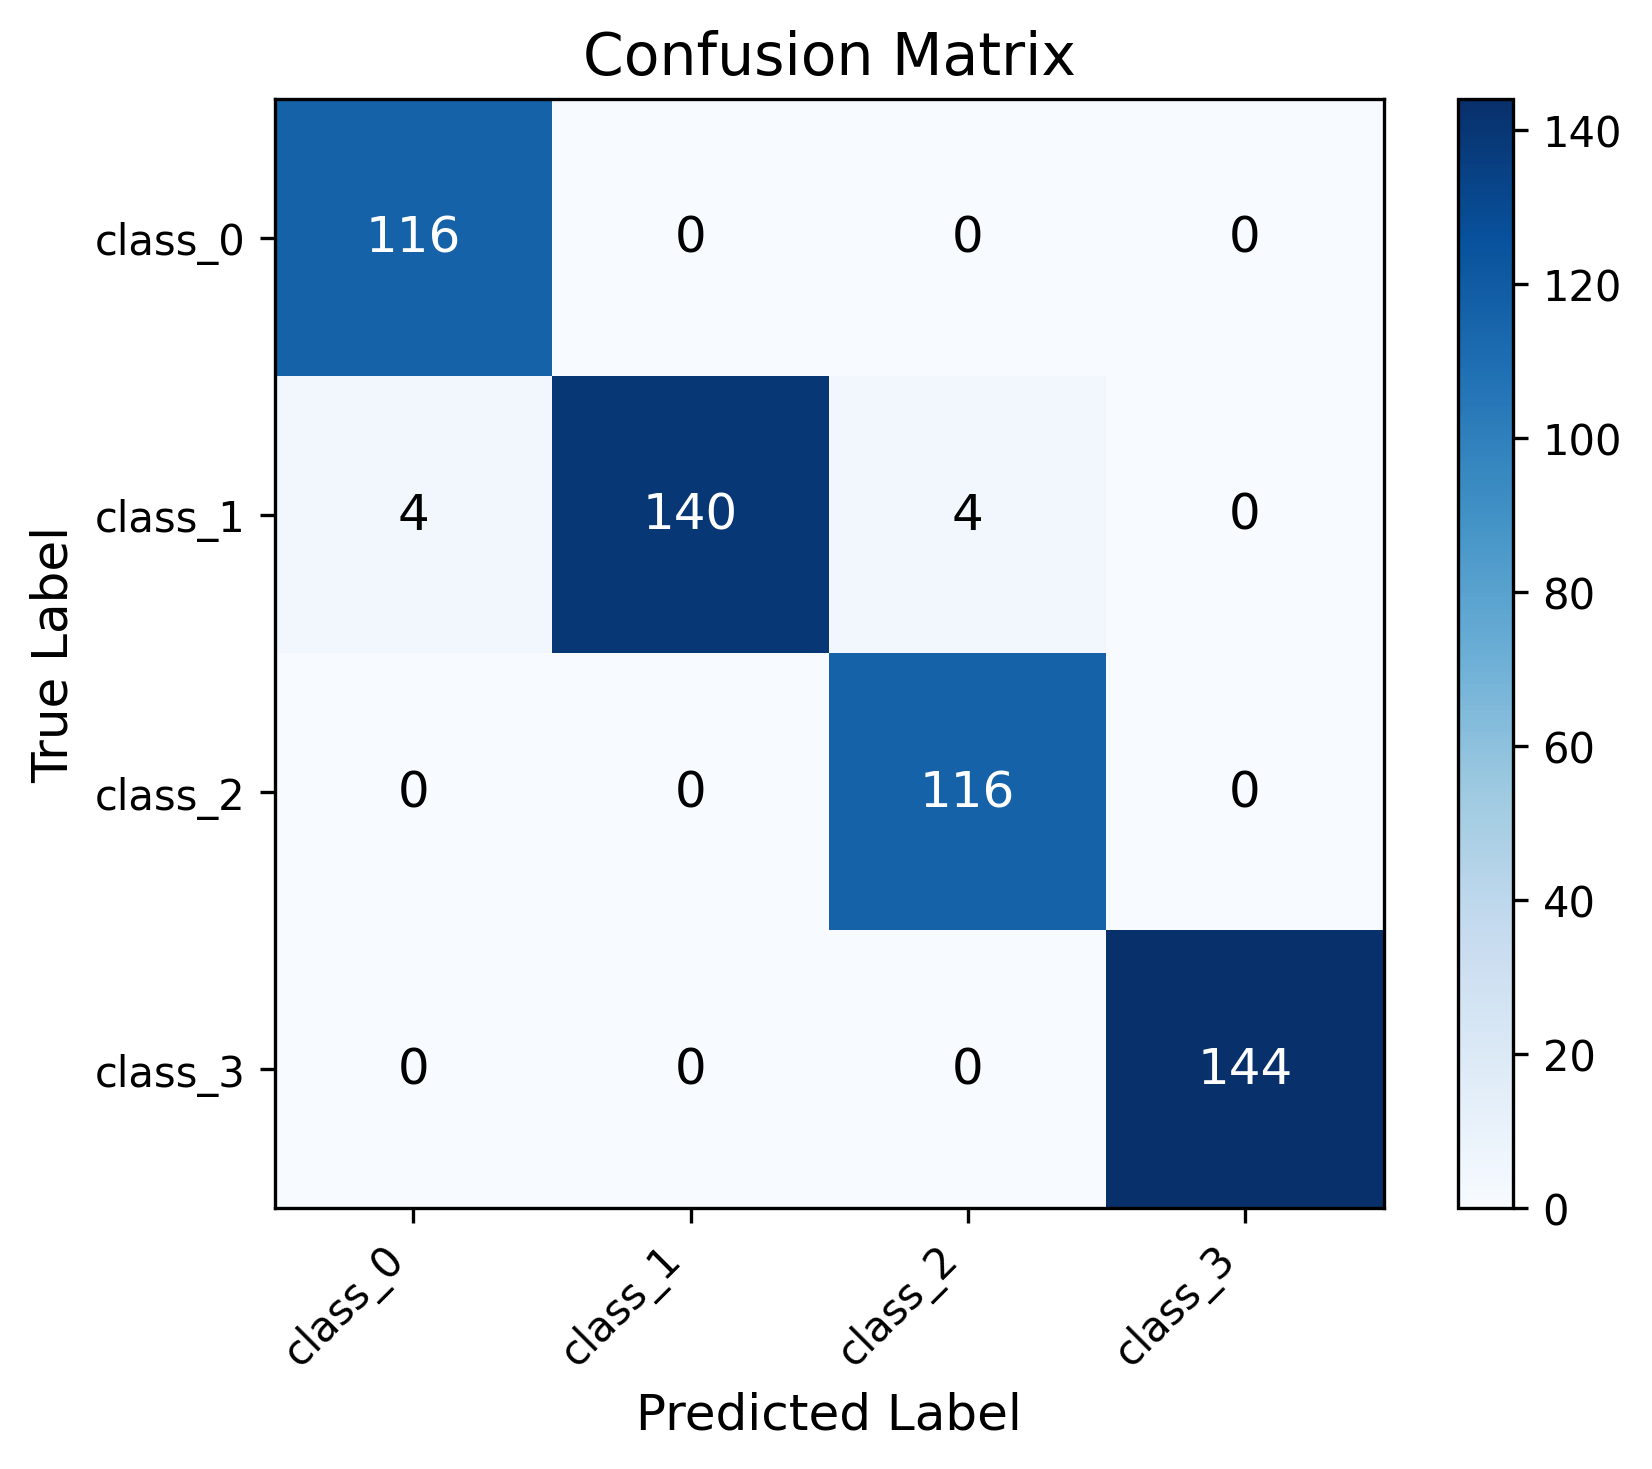
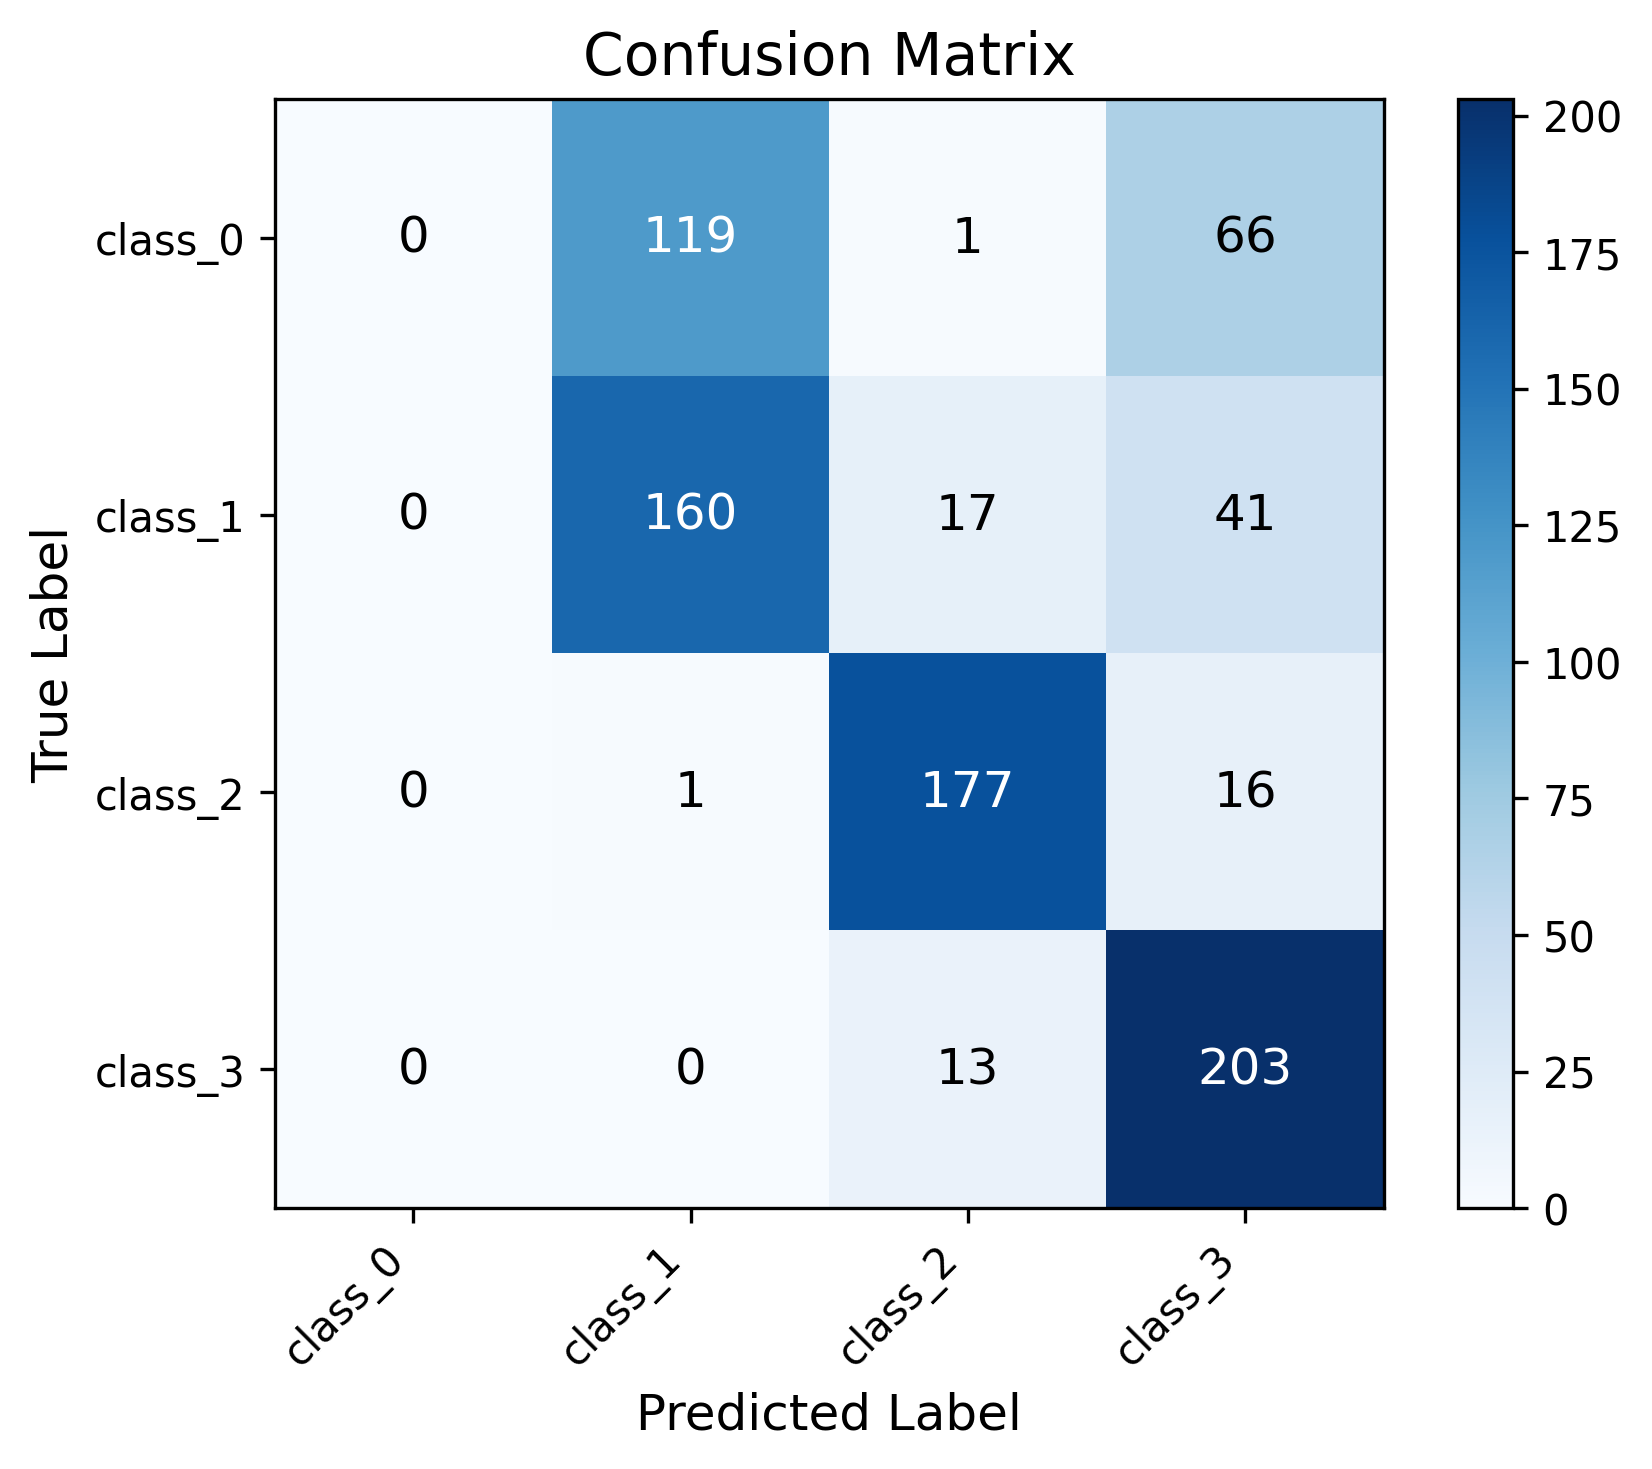
Add data loading functionality for shift test dataset; logits distill -> logits + feature l2 distill; attention loss X;
- Implemented `ShiftDataLoader` class in `readmatrobusteval.py` to load .mat files from a structured directory.

diff --git a/trainer.py b/trainer.py
@@ -24,6 +24,8 @@ from readmat import GXWData
 from exemplar import Exemplar
 from copy import deepcopy
 from sklearn.model_selection import train_test_split
+from readmat2 import GXW_data_shift_test
+from readmatrobusteval import ShiftDataLoader
 
 
 class Trainer:
@@ -33,6 +35,15 @@ class Trainer:
         self.num_new_cls = []
         self.dataset = GXWData()  
         self.openset = GXWData()
+        shift_loader = ShiftDataLoader()
+        shift_groups = shift_loader.get_shift_data()
+
+        if len(shift_groups) > 0:
+            shift_x, shift_y = zip(*shift_groups)
+        else:
+            shift_x, shift_y = [], []
+
+
         # self.dataset = Cifar100()  # 这里可以选择不同的数据集
         self.model = PreResNet(47,init_cls).cuda()        # formerly 32 for basicblock                          
         # print(self.model)
@@ -72,7 +83,8 @@ class Trainer:
             transforms.ToTensor(),
             transforms.Normalize([0.5],[0.2]),
         ])
-
+        self.shift_data = DataLoader(BatchData(shift_x, shift_y, self.input_transform_eval),
+                    batch_size=10, shuffle=False)
 
         total_params = sum(p.numel() for p in self.model.parameters() if p.requires_grad)
         print("Solver total trainable parameters : ", total_params)
@@ -340,6 +352,8 @@ class Trainer:
             self.previous_model = deepcopy(self.model)
             heatmap_name = f"heatmap_task_{inc_i}_after_BiC.png"
             test_acc, per_class_accuracy = self.test(test_data, inc_i, heatmap_name=heatmap_name)
+            if self.seen_cls >= 6:
+                shifttestacc, perclsshifttestacc = self.test(self.shift_data, inc_i, heatmap_name=f'shift_test{inc_i}.png')
             test_accs.append(test_acc)
             per_class_accuracies.append(per_class_accuracy)
             print("Test results on testset of model without BiC",test_accs_noBiC)
@@ -516,6 +530,7 @@ class Trainer:
         ce_losses = []
         accumulation_steps = 13
         alpha = (self.seen_cls - self.num_new_cls[-1]) / (self.seen_cls) 
+        # alpha = 0
         beta = beta
         print("classification proportion 1-alpha = ", 1-alpha)
         optimizer.zero_grad()
@@ -529,19 +544,23 @@ class Trainer:
                 pre_p = self.bias_forward(pre_p)
                 pre_p = F.softmax(pre_p[:,:self.seen_cls-num_new_cls]/T, dim=1)  
             logp = F.log_softmax(p[:,:self.seen_cls-num_new_cls]/T, dim=1)       
-            loss_soft_target = -torch.mean(torch.sum(pre_p * logp, dim=1))
+            # loss_soft_target = -torch.mean(torch.sum(pre_p * logp, dim=1))
+            loss_soft_target = F.kl_div(logp, pre_p, reduction='batchmean')
             loss_hard_target = nn.CrossEntropyLoss()(p[:,:self.seen_cls], label)
-            attn_loss = 0
-            for f, pf in zip(feats, pre_feats):
-                attn = self.get_attention_map(f)
-                pre_attn = self.get_attention_map(pf)
-                attn_loss += F.mse_loss(attn, pre_attn)
-                if not torch.isfinite(attn).all():
-                    print("Non-finite student_attn:", attn)
-                if not torch.isfinite(pre_attn).all():
-                    print("Non-finite teacher_attn:", pre_attn)
-            attn_loss /= len(feats)
-            loss = loss_soft_target * T * T + (1 - alpha) * loss_hard_target + beta * attn_loss
+            # attn_loss = 0
+            # for f, pf in zip(feats, pre_feats):
+            #     attn = self.get_attention_map(f)
+            #     pre_attn = self.get_attention_map(pf)
+            #     attn_loss += F.mse_loss(attn, pre_attn)
+            #     if not torch.isfinite(attn).all():
+            #         print("Non-finite student_attn:", attn)
+            #     if not torch.isfinite(pre_attn).all():
+            #         print("Non-finite teacher_attn:", pre_attn)
+            feat_old = pre_feats[-1]
+            feat_new = feats[-1]
+            feature_loss = F.mse_loss(feat_new, feat_old)
+            # attn_loss /= len(feats)
+            loss = alpha * loss_soft_target * T * T + alpha * feature_loss + (1 - alpha) * loss_hard_target 
 
             loss.backward(retain_graph=True)
             if (i + 1) % accumulation_steps == 0:

diff --git a/readmat2.py b/readmat2.py
@@ -1,0 +1,73 @@
+import os
+import scipy.io
+import numpy as np
+from tqdm import tqdm
+
+def GXW_data_shift_test(root_dir = 'GXW_Data/Dasdata_adding'):
+    """
+    Load shift test dataset from a directory structure: class folders with .mat files
+
+    Args:
+        root_dir: str, path to the shift test dataset root folder
+
+    Returns:
+        shift_test_group: list of (data, label)
+        class_to_idx: dict, {class_name: class_idx}
+    """
+
+    shift_data = []
+    shift_labels = []
+    class_names = sorted(os.listdir(root_dir))
+    class_to_idx = {cls_name: idx for idx, cls_name in enumerate(class_names)}
+
+    for cls_name in tqdm(class_names, desc="Loading shift test classes", leave=True):
+        cls_dir = os.path.join(root_dir, cls_name)
+        if not os.path.isdir(cls_dir):
+            continue
+        files = sorted(os.listdir(cls_dir))
+        mat_files = [os.path.join(cls_dir, f) for f in files if f.endswith('.mat')]
+
+        for fpath in tqdm(mat_files, desc=f'  {cls_name}', leave=False):
+            data = load_mat_file(fpath)
+            if data is not None:
+                shift_data.append(data)
+                # shift_labels.append(class_to_idx[cls_name])
+                shift_labels.append(1)  # all labels are 1 for THIS shift test
+                
+
+    # Pack into (data, label) pairs
+    shift_test_group = list(zip(shift_data, shift_labels))
+    print(f"Shift test samples loaded: {len(shift_test_group)} samples across {len(class_names)} classes")
+
+    return shift_test_group, class_to_idx
+
+
+def load_mat_file(file_path):
+    try:
+        mat_contents = scipy.io.loadmat(file_path)
+        valid_keys = [k for k in mat_contents.keys() if not k.startswith("__")]
+        if not valid_keys:
+            print(f"[WARN] No valid data key found in {file_path}")
+            return None
+
+        preferred_keys = ['subset_data', 'data']
+        for key in preferred_keys:
+            if key in mat_contents:
+                data = mat_contents[key]
+                break
+        else:
+            data = mat_contents[valid_keys[0]]  # fallback
+
+        if isinstance(data, np.ndarray):
+            if data.shape == (15, 10240):
+                return data.astype(np.float32)
+            elif data.shape[1] >= 10240 and data.shape[0] >= 15:
+                data = data[:15, :10240]
+                return data.astype(np.float32)
+            else:
+                return None
+        else:
+            return None
+    except Exception as e:
+        print(f"[ERROR] Failed to load {file_path}: {str(e)}")
+        return None

diff --git a/readmatrobusteval.py b/readmatrobusteval.py
@@ -1,0 +1,64 @@
+import os
+import numpy as np
+import scipy.io
+from tqdm import tqdm
+import torch
+
+class ShiftDataLoader:
+    def __init__(self, root_dir = 'GXW_Data/Dasdata_adding'):
+        self.root_dir = root_dir
+        self.all_data = []
+        self.all_labels = []  # 全部 label 设为 0
+
+        self.load_data()
+
+    def load_data(self):
+        class_names = sorted(os.listdir(self.root_dir))
+        print(f"[Shift] Found {len(class_names)} classes: {class_names}")
+
+        for cls_name in tqdm(class_names, desc="Loading shift classes"):
+            cls_dir = os.path.join(self.root_dir, cls_name)
+            if not os.path.isdir(cls_dir):
+                continue
+            files = sorted(os.listdir(cls_dir))
+            all_files = [os.path.join(cls_dir, f) for f in files if f.endswith('.mat')]
+
+            for fpath in tqdm(all_files, desc=f'  {cls_name}', leave=False):
+                data = self.load_mat_file(fpath)
+                if data is not None:
+                    self.all_data.append(data)
+                    self.all_labels.append(5)  # 全部 label 设为 1
+
+        print(f"[Shift] Loaded {len(self.all_data)} samples from {len(class_names)} classes")
+
+    def load_mat_file(self, file_path):
+        try:
+            mat_contents = scipy.io.loadmat(file_path)
+            valid_keys = [k for k in mat_contents.keys() if not k.startswith("__")]
+            if not valid_keys:
+                return None
+
+            preferred_keys = ['subset_data', 'data']
+            for key in preferred_keys:
+                if key in mat_contents:
+                    data = mat_contents[key]
+                    break
+            else:
+                data = mat_contents[valid_keys[0]]
+
+            if isinstance(data, np.ndarray):
+                if data.shape == (15, 10240):
+                    return data.astype(np.float32)
+                elif data.shape[1] >= 10240 and data.shape[0] >= 15:
+                    data = data[:15, :10240]
+                    return data.astype(np.float32)
+                else:
+                    return None
+            else:
+                return None
+        except Exception as e:
+            print(f"[ERROR] Failed to load {file_path}: {str(e)}")
+            return None
+
+    def get_shift_data(self):
+        return list(zip(self.all_data, self.all_labels))

diff --git a/main.py b/main.py
@@ -10,9 +10,9 @@ parser.add_argument('--epoch', default = 80, type = int) # small values for debu
 parser.add_argument('--lr', default = 0.01, type = float) 
 parser.add_argument('--max_size', default = 400, type = int)
 parser.add_argument('--init_cls', default = 0, type = int)  #### total_cls=100 -> init_cls=0
-parser.add_argument('--distill_temperature', default = 2, type = float)
+parser.add_argument('--distill_temperature', default = 1, type = float)
 parser.add_argument('--bias_lr', default = 0.001, type = float)
-parser.add_argument('--beta',default= 0.5, type = float)
+parser.add_argument('--beta',default= 0.0, type = float)
 args = parser.parse_args()
 
 
